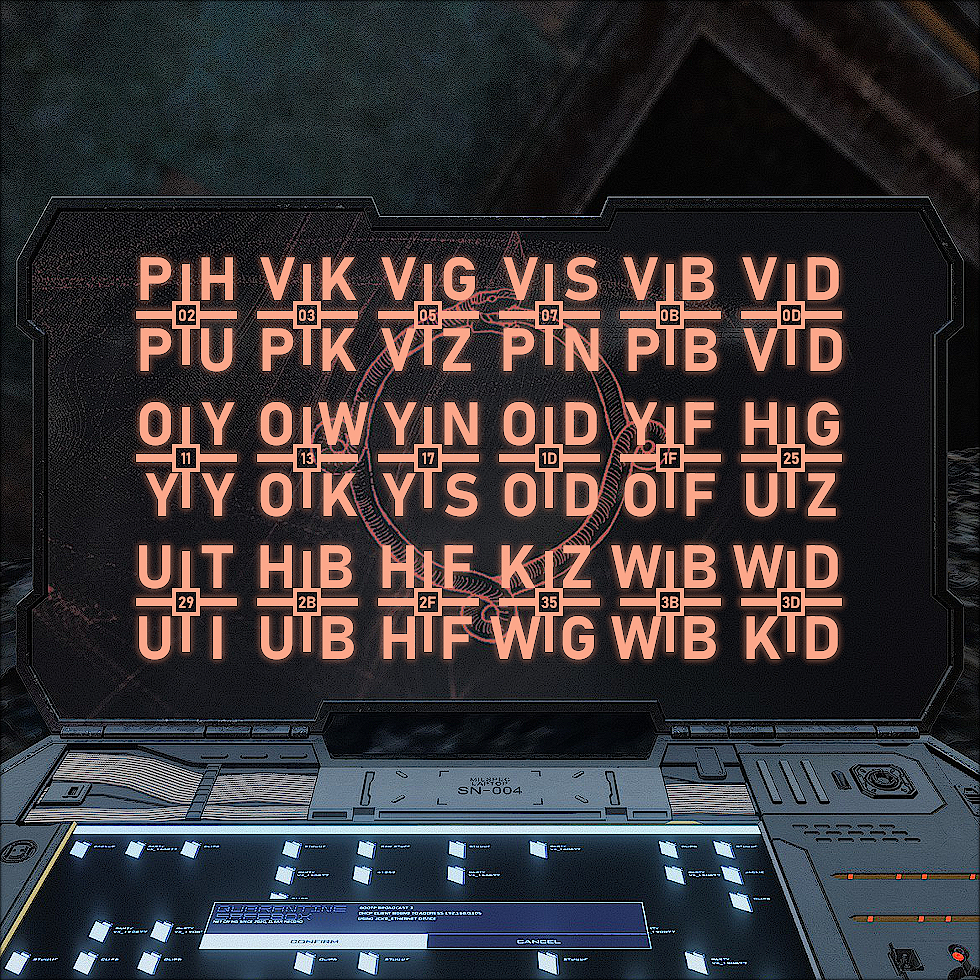
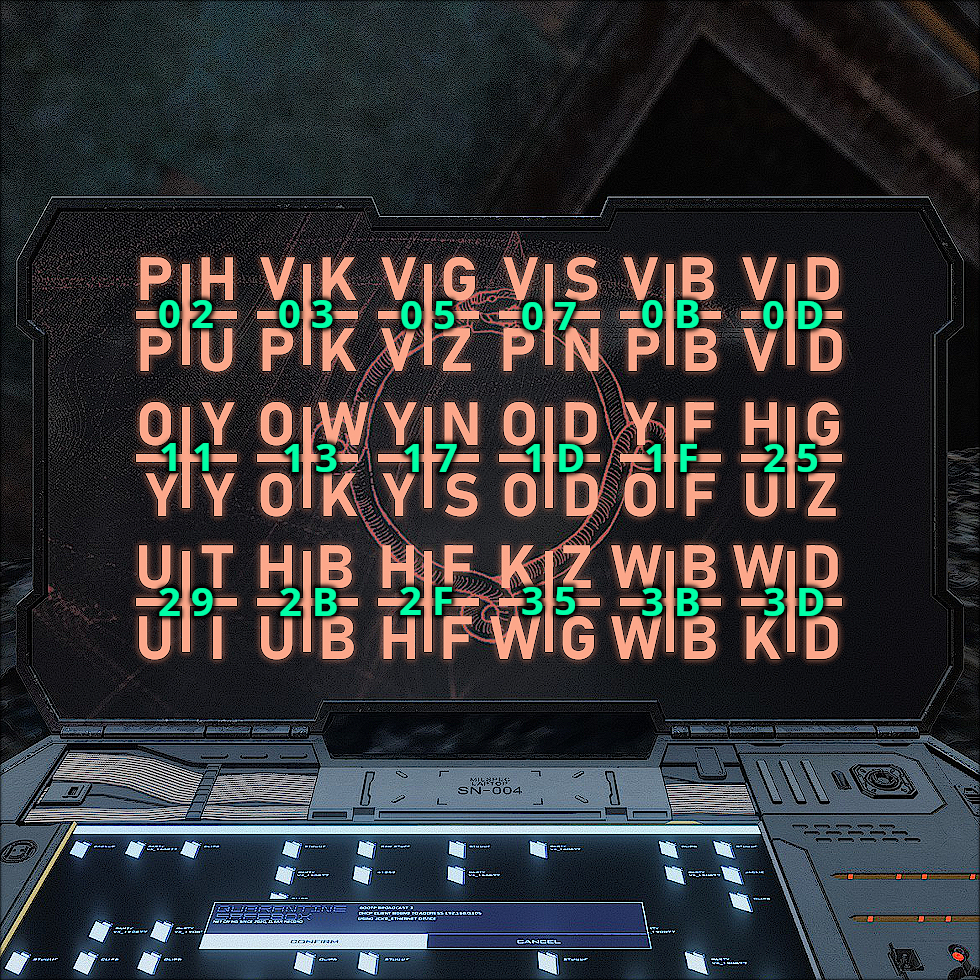
Content Update

diff --git a/index.html b/index.html
@@ -32,6 +32,7 @@
             font-size: 14px;
             cursor: pointer;
             font-family: 'Jura', sans-serif;
+            color: #FFF;
             box-shadow: 0 2px 6px rgba(0,0,0,0.1);
         }
         #resetBtn:hover { background: #333; }
